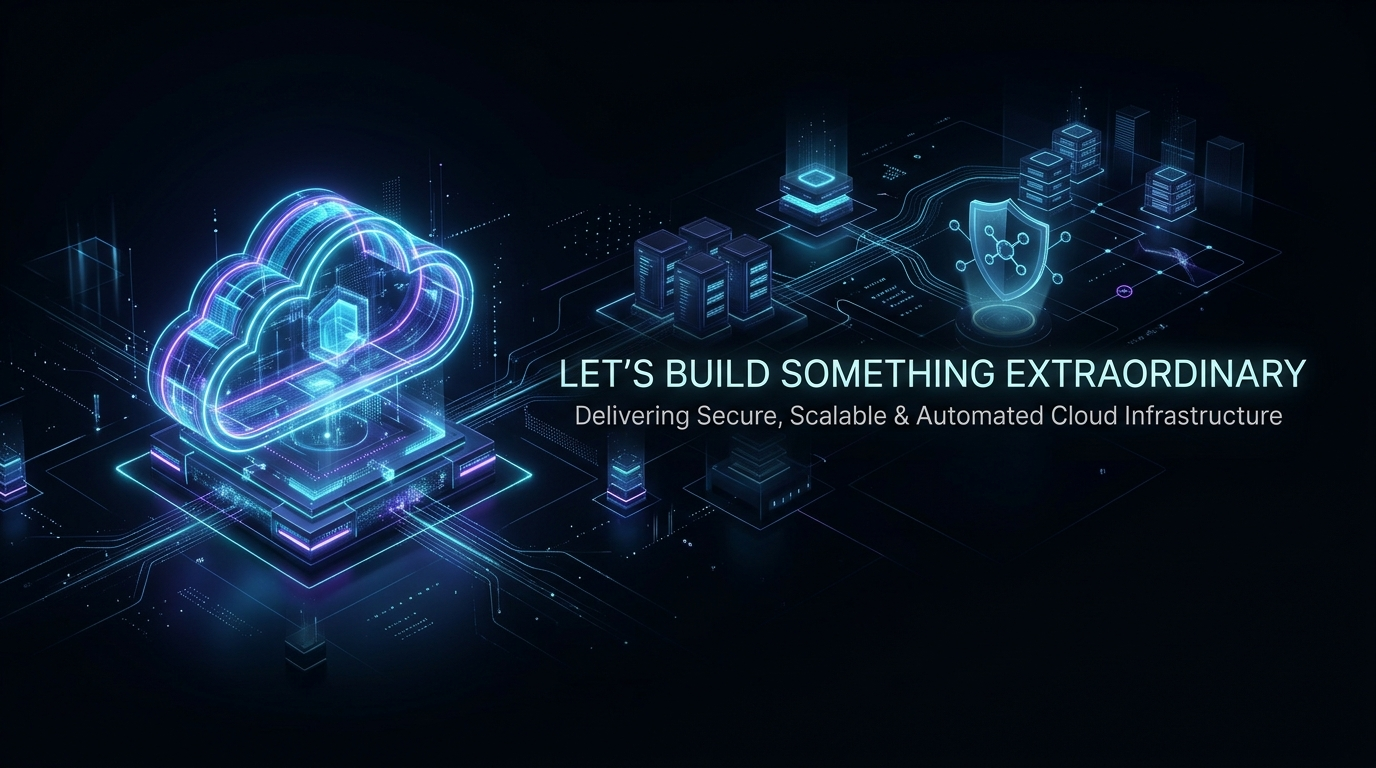
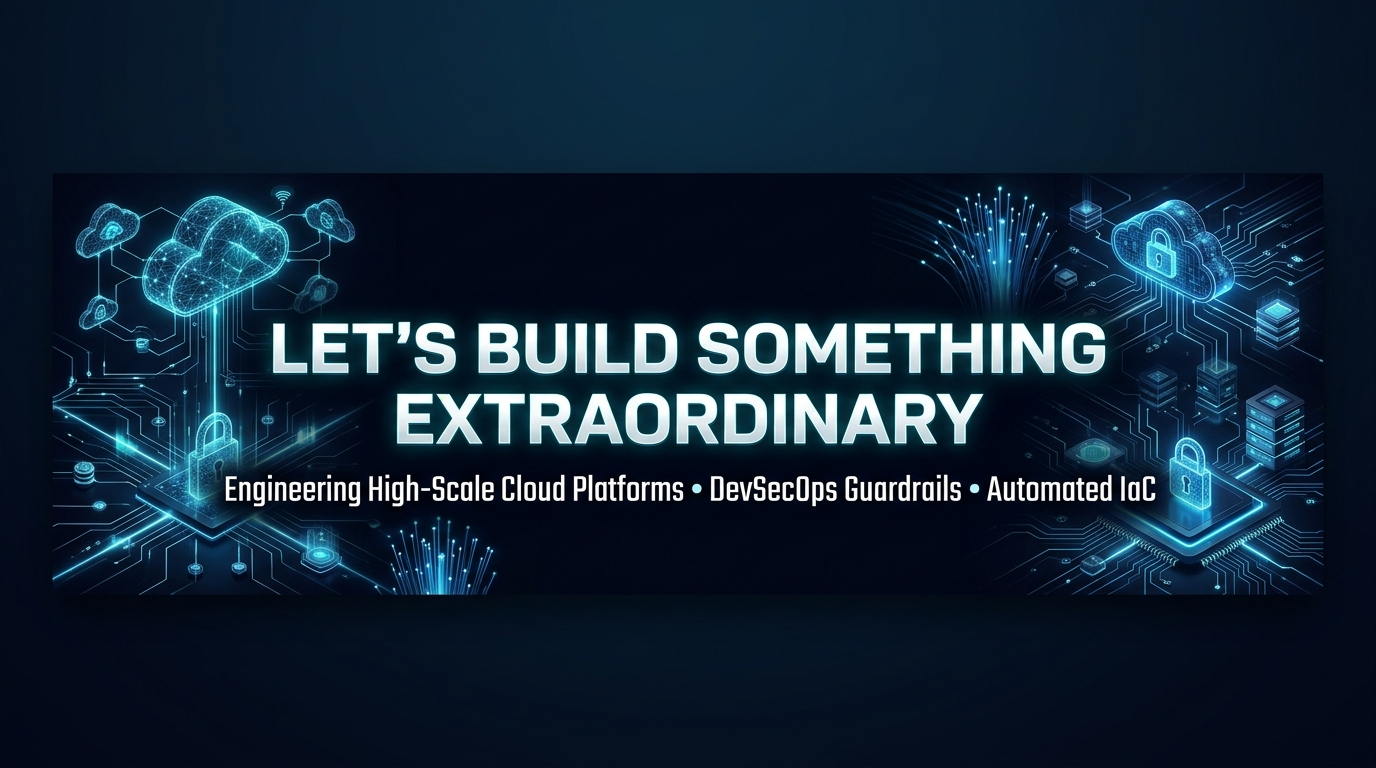
feat(profile): optimize header/footer visuals, add executive media lounge, and feature modular terraform library

diff --git a/README.md b/README.md
@@ -1,13 +1,13 @@
 <div align="center">
 
-<!-- Hero Banner -->
-<img src="./assets/banner.png" alt="Sanjeev Singh - Azure Cloud Architect & DevSecOps Engineer" width="100%">
-
-<br><br>
+<!-- Hero Banner (Optimized 850px Width, Modern Sans-Serif Typography) -->
+<p align="center">
+  <img src="./assets/banner.png" alt="Sanjeev Singh - Cloud & DevSecOps Platform Engineer" width="850" style="max-width: 100%; height: auto; border-radius: 10px;">
+</p>
 
 <!-- Animated Dynamic Typing Banner -->
 <a href="https://linkedin.com/in/sanjiivsingh">
-  <img src="https://readme-typing-svg.demolab.com?font=Fira+Code&weight=600&size=22&duration=3000&pause=1000&color=0078D4&background=0d111700&center=true&vCenter=true&width=820&height=50&lines=Cloud+%26+DevSecOps+Engineer;Azure+Solutions+Architect+%7C+Terraform+Specialist;Building+Enterprise+Landing+Zones+%26+Secure+CI%2FCD;Zero-Trust+Security+%7C+Compliance+%26+RBAC+Governance;Hardened+Infrastructure+for+High-Scale+Trading+Platforms;Kubernetes+(AKS)+%7C+Docker+%7C+DevSecOps+Guardrails" alt="Typing Animation" />
+  <img src="https://readme-typing-svg.demolab.com?font=Fira+Code&weight=600&size=20&duration=3000&pause=1000&color=0078D4&background=0d111700&center=true&vCenter=true&width=850&height=45&lines=Cloud+%26+DevSecOps+Platform+Engineer;Architecting+Resilient+Cloud+Infrastructure;Provisioning+Secure%2C+Governed+%26+Cost-Optimized+Systems;Enterprise+Terraform+IaC+%7C+Reusable+Child+Modules;Zero-Trust+Security+%7C+Shift-Left+DevSecOps+Guardrails;Kubernetes+(AKS)+%7C+Docker+%7C+Automated+CI%2FCD" alt="Typing Animation" />
 </a>
 
 <br>
@@ -23,7 +23,7 @@
   <a href="https://sanjeevsingh.oneps.in" target="_blank">
     <img src="https://img.shields.io/badge/Portfolio-sanjeevsingh.oneps.in-0078D4?style=for-the-badge&logo=microsoftazure&logoColor=white" alt="Portfolio" />
   </a>
-  <a href="mailto:theinvinciblesanjeev@gmail.com">
+  <a href="mailto:sanjeevsinghred@gmail.com">
     <img src="https://img.shields.io/badge/Email-Contact_Me-EA4335?style=for-the-badge&logo=gmail&logoColor=white" alt="Email" />
   </a>
   <a href="https://twitter.com/sanjiiv_singh" target="_blank">
@@ -45,7 +45,8 @@
 
 <!-- Fast Navigation Menu -->
 <p align="center">
-  <a href="#-executive-summary"><b>Executive Summary</b></a> •
+  <a href="#-executive-video-intro--tech-ambient-soundscape"><b>Video &amp; Soundscape</b></a> •
+  <a href="#-cloud-infrastructure--devsecops-architecture"><b>Executive Profile</b></a> •
   <a href="#-devsecops-pipeline--continuous-delivery-architecture"><b>DevSecOps Pipeline</b></a> •
   <a href="#-featured-engineering-projects"><b>Featured Projects</b></a> •
   <a href="#-core-technical-stack--skills-matrix"><b>Skills Matrix</b></a> •
@@ -58,27 +59,54 @@
 
 ---
 
-# 🚀 Executive Summary
+# 🎙 Executive Video Intro & Tech Ambient Soundscape
 
-I am a **Cloud & DevSecOps Engineer** with **10+ years of professional experience across IT, cloud infrastructure, and banking operations**, including **5+ years specializing in Microsoft Azure, Terraform, CI/CD, and infrastructure automation**. 
+<div align="center">
 
-My core focus is designing, automating, and maintaining **secure-by-default, scalable, and audit-ready cloud platforms** that accelerate software delivery while eliminating manual toil and configuration drift.
+<p align="center">
+  <a href="https://sanjeevsingh.oneps.in">
+    <img src="./assets/media-player.svg" alt="Executive Video Intro & Continuous Tech Ambient Sound" width="850" style="max-width: 100%; height: auto; border-radius: 10px;" />
+  </a>
+</p>
 
-### 💼 What Sets Me Apart:
-- **High-Concurrency Production Experience:** Provided Azure infrastructure automation and DevOps support for a high-volume **US-based futures proprietary trading platform** serving thousands of concurrent users, handling Terraform modularization, zero-downtime CI/CD, and cloud operations.
-- **Enterprise DevSecOps Guardrails:** Shift-left security practitioner embedding automated quality gates (**TFLint**, **Checkov**, **tfsec**, **Trivy**, **Gitleaks**, and **SonarQube**) directly into GitHub Actions and Azure DevOps pipelines.
-- **Banking Governance & Risk Compliance Heritage:** 4+ years as **Assistant Manager – Banking Operations / Risk & Compliance at State Bank of India (SBI)**. This unique foundation provides deep, practical expertise in **operational risk controls**, **least-privilege RBAC**, **procedural compliance**, and **access governance**—ensuring mission-critical infrastructure satisfies strict regulatory standards.
+<p align="center">
+  <a href="https://sanjeevsingh.oneps.in" target="_blank">
+    <img src="https://img.shields.io/badge/▶_Watch_Video-Architecture_Walkthrough_(2:15)-0078D4?style=for-the-badge&logo=youtube&logoColor=white" alt="Watch Video" />
+  </a>
+  <a href="https://open.spotify.com/playlist/37i9dQZF1DXdLEN7aqioXM" target="_blank">
+    <img src="https://img.shields.io/badge/🎧_Play_Ambient_Tech-Spotify_Focus_Beats-1DB954?style=for-the-badge&logo=spotify&logoColor=white" alt="Play Spotify" />
+  </a>
+  <a href="https://soundcloud.com/search?q=cyberpunk%20synthwave%20ambient%20focus" target="_blank">
+    <img src="https://img.shields.io/badge/🔊_Play_Synthwave-SoundCloud_Stream-FF5500?style=for-the-badge&logo=soundcloud&logoColor=white" alt="Play SoundCloud" />
+  </a>
+</p>
+
+</div>
+
+> [!NOTE]
+> **Interactive Multimedia Experience:** GitHub Markdown sanitization prevents unprompted background audio autoplay. Click the interactive media player or quick-launch badges above to launch the architecture walkthrough and stream continuous low-latency ambient tech focus music while exploring the repositories below.
+
+---
+
+# ⚡ Cloud Infrastructure & DevSecOps Architecture
+
+I am a **Cloud & DevSecOps Platform Engineer** with **10+ years of professional engineering and banking governance experience**, including **5+ years architecting Microsoft Azure platforms, modular Terraform IaC, and automated CI/CD security guardrails**.
+
+### 💼 Engineering Impact at a Glance:
+- **High-Concurrency Production Systems:** Automated and operated Azure infrastructure for a US-based futures proprietary trading platform supporting high concurrent load, achieving zero-drift modular IaC and rapid deployment cycles.
+- **Enterprise DevSecOps Guardrails:** Shift-left security specialist enforcing automated quality gates (**TFLint**, **Checkov**, **tfsec**, **Trivy**, and **Gitleaks**) directly inside GitHub Actions and Azure DevOps pipelines.
+- **Banking Governance & Risk Rigor:** 4+ years as **Assistant Manager – Banking Operations / Risk & Compliance at State Bank of India (SBI)**, translating institutional risk controls, least-privilege RBAC, and audit readiness directly into cloud infrastructure.
 
 ### 🎯 Business Value Delivered
 
-| Solution Domain | Architectural Deliverable | Measurable Business Impact |
+| Domain | Architectural Deliverable | Measurable Impact |
 | :--- | :--- | :--- |
-| **☁ Azure Landing Zones** | Hub-and-spoke networks, subscription governance, Azure Policies, Entra ID | Standardized, enterprise-ready foundations built in hours rather than months |
-| **🏗 Modular Terraform IaC** | Versioned modules, Azure Blob state locking, dynamic blocks & validation | 100% reproducible environments across Dev, UAT, and Production with zero drift |
-| **🛡 DevSecOps & Shift-Left** | Automated SAST (Checkov/tfsec), secret detection (Gitleaks), Trivy container audit | Security vulnerabilities flagged and blocked *before* pull requests merge |
-| **🚀 Automated CI/CD** | GitHub Actions & Azure DevOps pipelines with OIDC passwordless authentication | Safe, repeatable, automated releases with branch protection and manual approvals |
-| **☸ Container Platforms** | AKS clusters, ACR registries, Docker Compose networking & microservices | Resilient, containerized microservice architectures with private networking |
-| **📊 Operational Excellence** | Azure Monitor, Log Analytics workspaces, diagnostic settings, automated alerts | Real-time visibility, proactive incident reduction, and cloud cost optimization |
+| **☁ Azure Landing Zones** | Hub-and-spoke topology, subscription governance, Azure Policies, Entra ID | Standardized, enterprise foundations provisioned in hours |
+| **🏗 Modular Terraform IaC** | Decoupled child modules, Azure Blob state locking, dynamic blocks | 100% reproducible environments across Dev, UAT, and Prod |
+| **🛡 Shift-Left DevSecOps** | Automated SAST (Checkov/tfsec), secret scanning (Gitleaks), Trivy | Critical vulnerabilities blocked *before* PR merge |
+| **🚀 Automated CI/CD** | GitHub Actions & Azure DevOps with passwordless Azure OIDC | Zero-downtime releases with automated drift detection |
+| **☸ Container Platforms** | AKS clusters, ACR registries, Docker bridge networking & microservices | Resilient, containerized microservices with private ingress |
+| **📊 Observability** | Azure Monitor, Log Analytics, diagnostic metrics, proactive alerts | Proactive issue resolution and continuous cloud cost optimization |
 
 ---
 
@@ -136,17 +164,16 @@ Direct links to open-source architectures, automation frameworks, and hands-on p
 <tr>
 <td width="50%" valign="top">
 
-### 🏛 [Terraform Azure Foundation](https://github.com/sanjiivsingh/terraform-azure-foundation)
-**Enterprise Multi-Tier Infrastructure as Code Architecture**
-- Designed a modular, multi-tier Terraform repository provisioning standardized Azure infrastructure components with environment-specific variable hierarchies (`dev`, `prod`).
-- Reusable modules for Virtual Networks, Subnets, Key Vault with zero-trust ACLs, and Storage Accounts.
-- Built GitHub Actions automation executing code formatting, syntax validation, security analysis (**Checkov**), and linting (**TFLint**) prior to pull request merges.
-- Integrated centralized remote state storage with automated state locking using **Azure Blob Storage**.
+### 🏛 [Terraform Azure Resource Modules](https://github.com/sanjiivsingh/terraform-azure-resource-modules)
+**Reusable Multi-Tier Azure IaC Child-Modules Library**
+- Engineered an enterprise library of 11+ independent, production-ready child modules: Resource Group, Virtual Network, Subnet, Network Security Group, NSG Association, Public IP, Network Interface, Linux VM, Bastion Host, Key Vault, and Application Gateway.
+- Architected for multi-environment decoupling (`environments/dev`), zero hardcoded attributes, dynamic blocks for conditional resources, and implicit dependency management.
+- Integrated automated GitHub Actions workflow (`CI.yaml`) validating formatting, syntax, and plan generation across modules.
 
 ```text
-Stack: Terraform · Azure VNets · Key Vault · Checkov · TFLint · GitHub Actions
+Stack: Terraform · AzureRM · Child Modules · Key Vault · App Gateway · CI/CD
 ```
-👉 **[View Repository →](https://github.com/sanjiivsingh/terraform-azure-foundation)**
+👉 **[View Repository →](https://github.com/sanjiivsingh/terraform-azure-resource-modules)**
 
 </td>
 <td width="50%" valign="top">
@@ -169,7 +196,7 @@ Stack: Azure AKS · Docker · ACR · Trivy · Checkov · Terraform · GitHub Act
 <tr>
 <td width="50%" valign="top">
 
-### ⚡ [PropEdge Trading Platform Lab](https://github.com/sanjiivsingh/PropEdge-Docker-Lab)
+### ⚡ [PropEdge Trading Platform Lab](https://github.com/sanjiivsingh/propedge-docker-lab)
 **High-Concurrency Containerized Trading System Deployment**
 - Implemented deployment and infrastructure for a containerized multi-tier proprietary trading platform.
 - Configured a multi-container stack with **Docker Compose**, utilizing segregated bridge networks between the **React** frontend, **FastAPI** backend, and **PostgreSQL** database.
@@ -179,9 +206,27 @@ Stack: Azure AKS · Docker · ACR · Trivy · Checkov · Terraform · GitHub Act
 ```text
 Stack: Azure VMs · Docker Compose · FastAPI · PostgreSQL · React · Cloudflare
 ```
-👉 **[View Repository →](https://github.com/sanjiivsingh/PropEdge-Docker-Lab)**
+👉 **[View Repository →](https://github.com/sanjiivsingh/propedge-docker-lab)**
 
 </td>
+<td width="50%" valign="top">
+
+### 🏛 [Terraform Azure Foundation](https://github.com/sanjiivsingh/terraform-azure-foundation)
+**Enterprise Multi-Tier Infrastructure as Code Architecture**
+- Designed a modular, multi-tier Terraform repository provisioning standardized Azure infrastructure components with environment-specific variable hierarchies (`dev`, `prod`).
+- Reusable modules for Virtual Networks, Subnets, Key Vault with zero-trust ACLs, and Storage Accounts.
+- Built GitHub Actions automation executing code formatting, syntax validation, security analysis (**Checkov**), and linting (**TFLint**) prior to pull request merges.
+- Integrated centralized remote state storage with automated state locking using **Azure Blob Storage**.
+
+```text
+Stack: Terraform · Azure VNets · Key Vault · Checkov · TFLint · GitHub Actions
+```
+👉 **[View Repository →](https://github.com/sanjiivsingh/terraform-azure-foundation)**
+
+</td>
+</tr>
+
+<tr>
 <td width="50%" valign="top">
 
 ### 🛠 [CREP — Code Repository Provisioner](https://github.com/sanjiivsingh/CREP)
@@ -196,9 +241,6 @@ Stack: Bash · GitHub CLI · Git · Linux Shell · Automation
 👉 **[View Repository →](https://github.com/sanjiivsingh/CREP)**
 
 </td>
-</tr>
-
-<tr>
 <td width="50%" valign="top">
 
 ### 🔄 [End-to-End Terraform CI/CD](https://github.com/sanjiivsingh/workflow-basic-1)
@@ -211,19 +253,6 @@ Stack: Bash · GitHub CLI · Git · Linux Shell · Automation
 Stack: GitHub Actions · Terraform · Azure OIDC · Checkov · TFLint
 ```
 👉 **[View Repository →](https://github.com/sanjiivsingh/workflow-basic-1)**
-
-</td>
-<td width="50%" valign="top">
-
-### 🌐 [Azure Modular VM & Network Lab](https://github.com/sanjiivsingh/azure-terraform-modular-vm-lab)
-**Hub-and-Spoke Topology with VNet Peering & Security**
-- Modular Terraform configuration deploying enterprise networking topologies with VNets, subnets, Network Security Groups, and bidirectional peering.
-- Implemented Azure Bastion hosts for secure management and private IP interconnectivity across multi-tier workloads.
-
-```text
-Stack: Terraform · Azure VNets · NSG · VNet Peering · Bastion
-```
-👉 **[View Repository →](https://github.com/sanjiivsingh/azure-terraform-modular-vm-lab)**
 
 </td>
 </tr>
@@ -414,13 +443,15 @@ Whether you are building out **Enterprise Azure Landing Zones**, adopting **Terr
 
 <div align="center">
 
-<img src="./assets/footer.png" alt="Let's Build Something Extraordinary" width="100%">
+<p align="center">
+  <img src="./assets/footer.png" alt="Let's Build Something Extraordinary" width="850" style="max-width: 100%; height: auto; border-radius: 10px;">
+</p>
 
-<br><br>
+<br>
 
 <p align="center">
-  <a href="mailto:theinvinciblesanjeev@gmail.com">
-    <img src="https://img.shields.io/badge/Email-theinvinciblesanjeev@gmail.com-EA4335?style=for-the-badge&logo=gmail&logoColor=white" alt="Email" />
+  <a href="mailto:sanjeevsinghred@gmail.com">
+    <img src="https://img.shields.io/badge/Email-sanjeevsinghred@gmail.com-EA4335?style=for-the-badge&logo=gmail&logoColor=white" alt="Email" />
   </a>
   <a href="https://linkedin.com/in/sanjiivsingh" target="_blank">
     <img src="https://img.shields.io/badge/LinkedIn-sanjiivsingh-0A66C2?style=for-the-badge&logo=linkedin&logoColor=white" alt="LinkedIn" />
